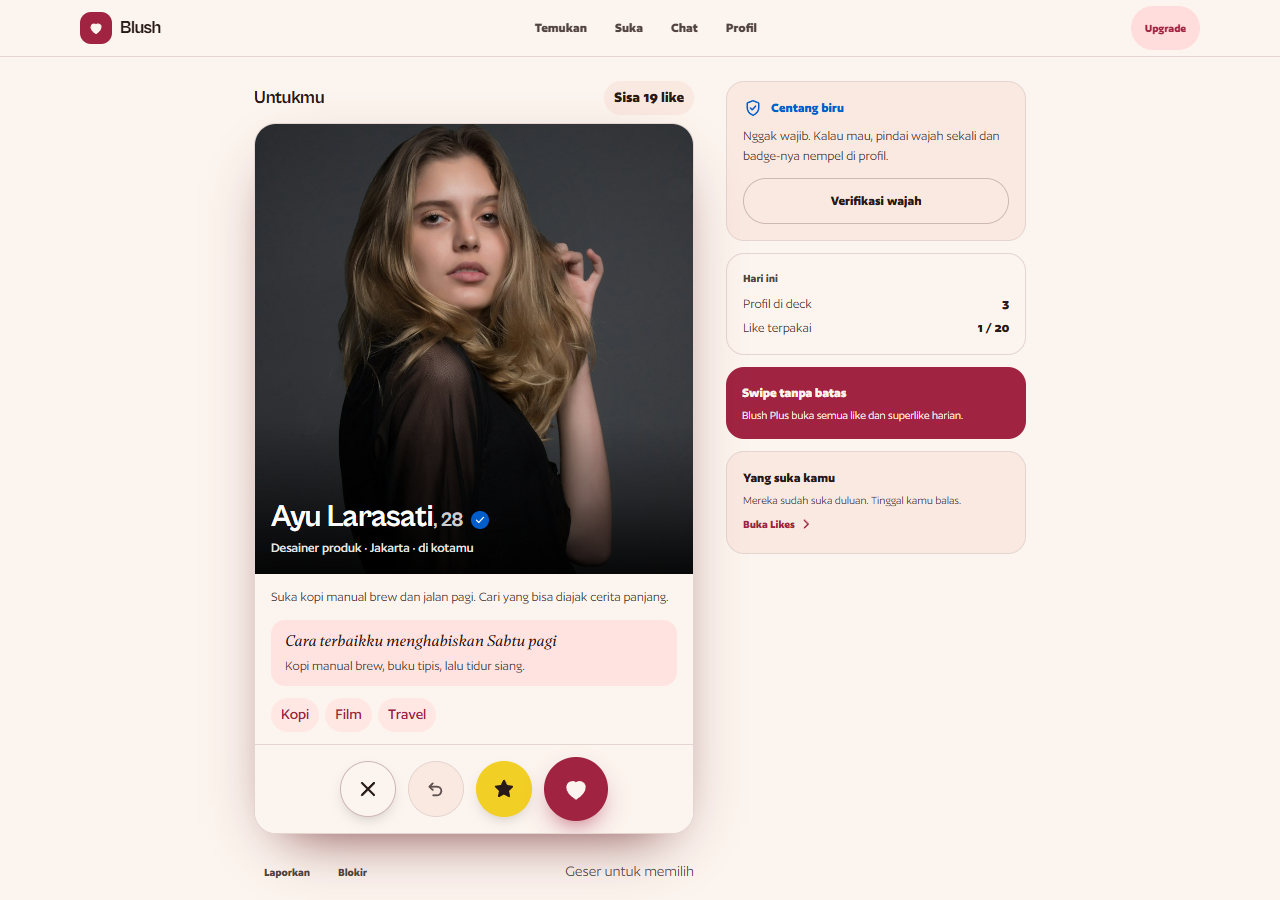
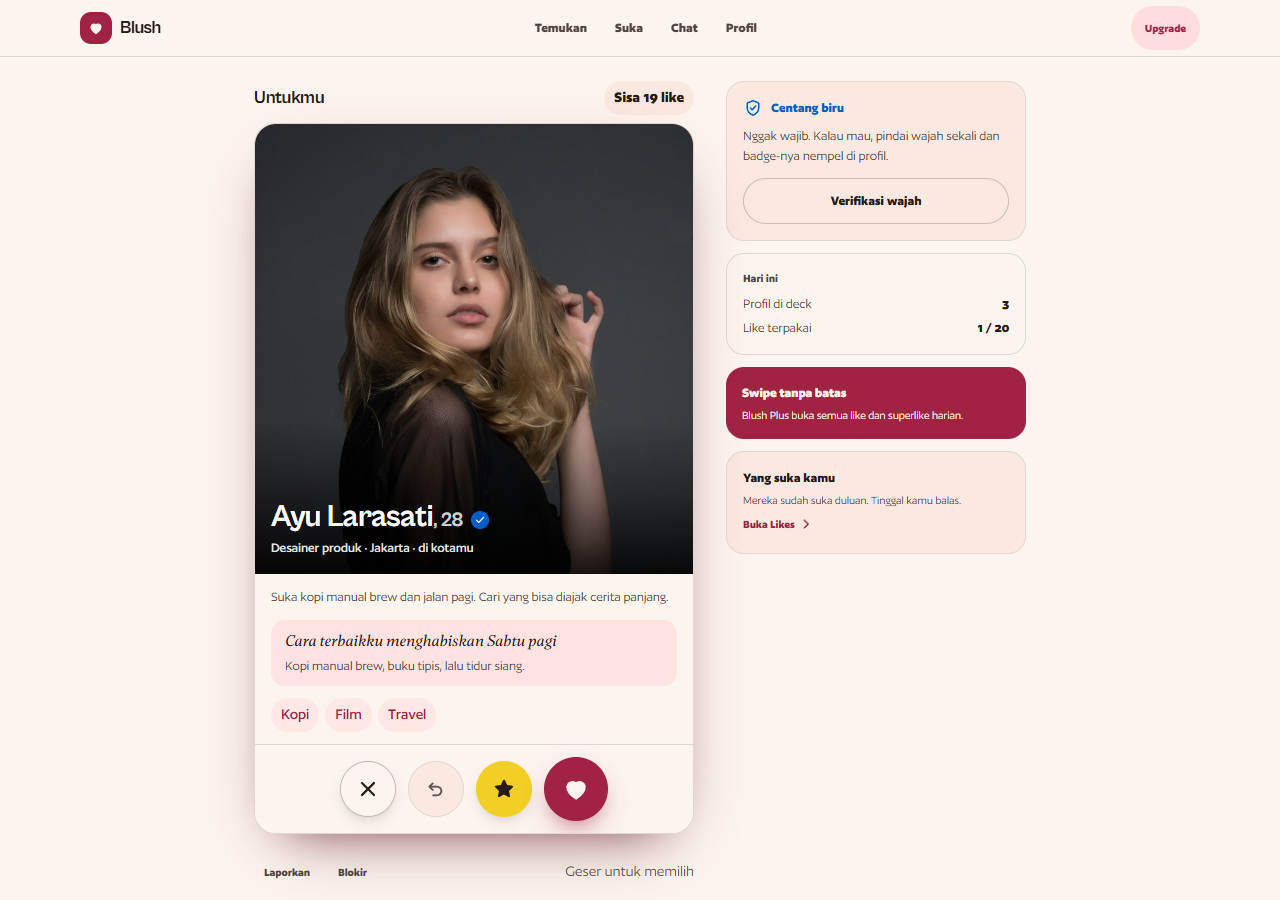
Landing pakai portrait lokal, crop wajah di kartu

Changed region(s): [[0.25, 0.1244, 0.4688, 0.56], [0.4688, 0.4978, 0.5, 0.56], [0.4375, 0.56, 0.4688, 0.5911]]

diff --git a/src/app/page.tsx b/src/app/page.tsx
@@ -30,10 +30,9 @@ function DeckPreview() {
         <div className="relative aspect-[4/5] w-full overflow-hidden bg-blush-tint sm:aspect-[3/4]">
           {/* eslint-disable-next-line @next/next/no-img-element */}
           <img
-            src="https://images.unsplash.com/photo-1524504388940-b1c1722653e1?w=760&q=80&auto=format&fit=crop"
+            src="/demo/nadia.jpg"
             alt="Contoh kartu profil di deck Blush"
-            className="h-full w-full object-cover"
-            referrerPolicy="no-referrer"
+            className="h-full w-full object-cover object-[center_38%]"
           />
           <div className="absolute inset-x-0 top-0 flex gap-1 p-2.5" aria-hidden="true">
             {[0, 1, 2].map((i) => (

diff --git a/src/components/SwipeDeck.tsx b/src/components/SwipeDeck.tsx
@@ -167,7 +167,7 @@ function SwipeCard({
           <img
             src={photos[photoIdx]}
             alt={`Foto ${candidate.display_name}`}
-            className="h-full w-full object-cover"
+            className="h-full w-full object-cover object-[center_30%]"
             draggable={false}
           />
         ) : (
